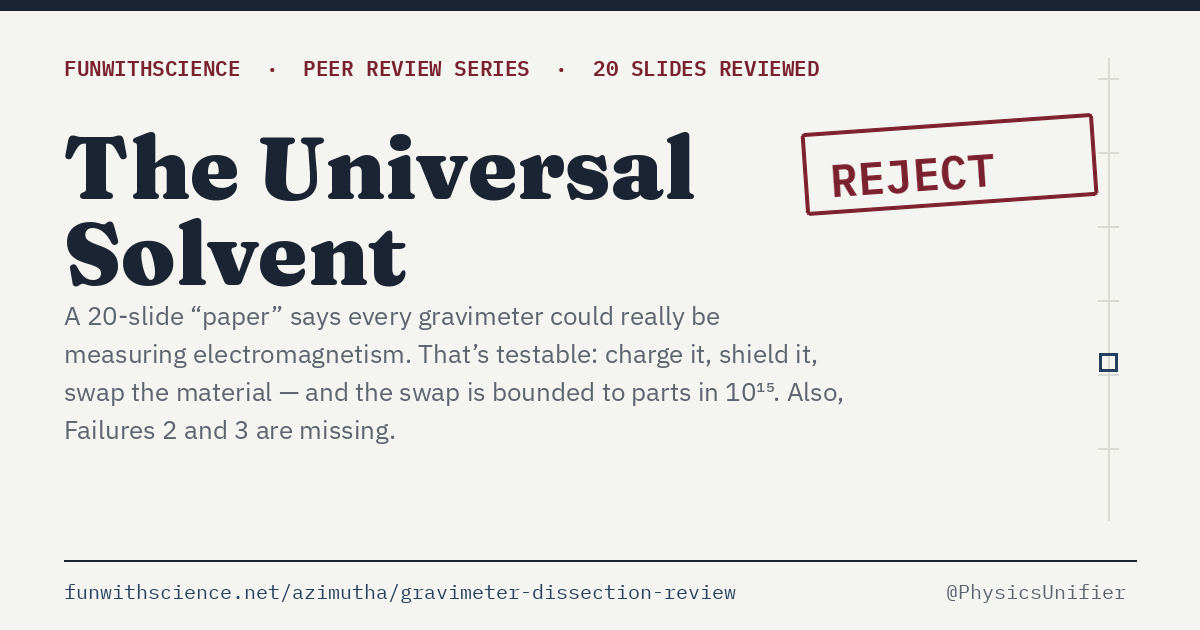
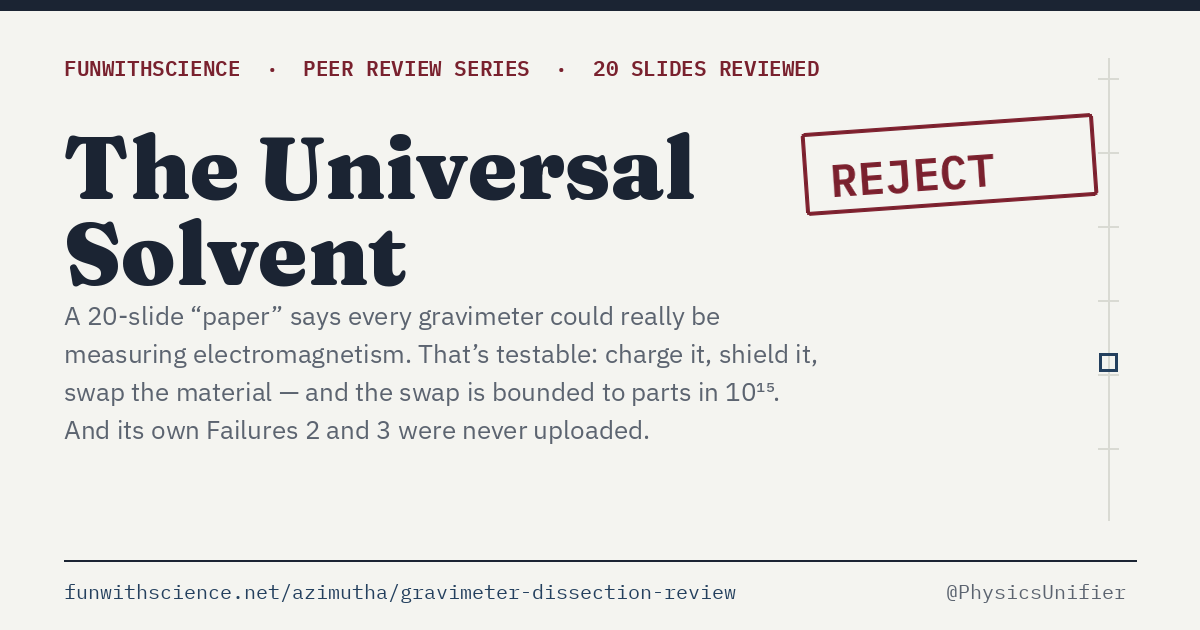
Clarify gravimeter uploaded-failures wording on card and index

Changed region(s): [[0.0308, 0.6635, 0.555, 0.6937], [0.6475, 0.6032, 0.7092, 0.6333]]

diff --git a/index.html b/index.html
@@ -113,7 +113,7 @@
       <span class="stamp reject">Reject</span>
     </div>
     <h3>“Gravimeter Analysis” (the ‘Gravitimeter Dissection’)</h3>
-    <p class="blurb">Tables every gravimeter type and dismisses each with one move: the displacement “could equally be electromagnetic.” That's a testable hypothesis — charge the mass, swap the material, shield the instrument — and physics has bounded the material-dependence to parts in 10¹⁵, far below anything that could imitate gravity. Also: the paper's own numbering runs its cross-cutting failures 1, 4, 5 — its Failures 2 and 3 don't exist.</p>
+    <p class="blurb">Tables every gravimeter type and dismisses each with one move: the displacement “could equally be electromagnetic.” That's a testable hypothesis — charge the mass, swap the material, shield the instrument — and physics has bounded the material-dependence to parts in 10¹⁵, far below anything that could imitate gravity. Also: the paper's own numbering runs its cross-cutting failures 1, 4, 5 — its own Failures 2 and 3 were never uploaded.</p>
   </a>
 
   <a class="review" href="cavendish-metrology-review/">